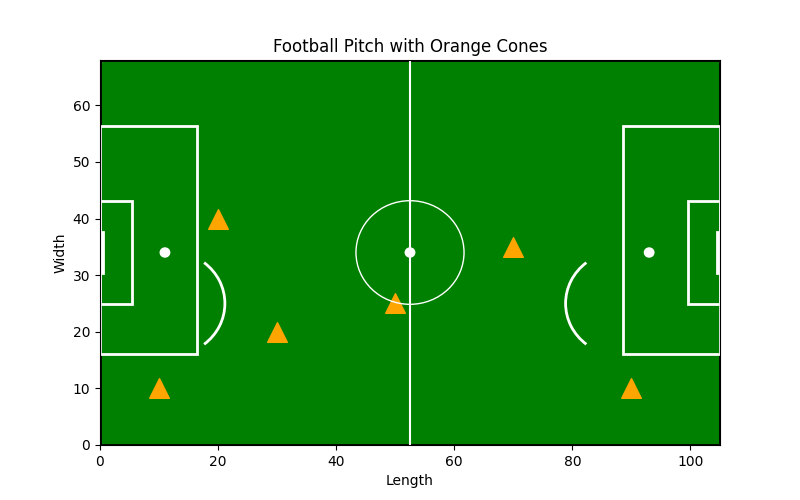
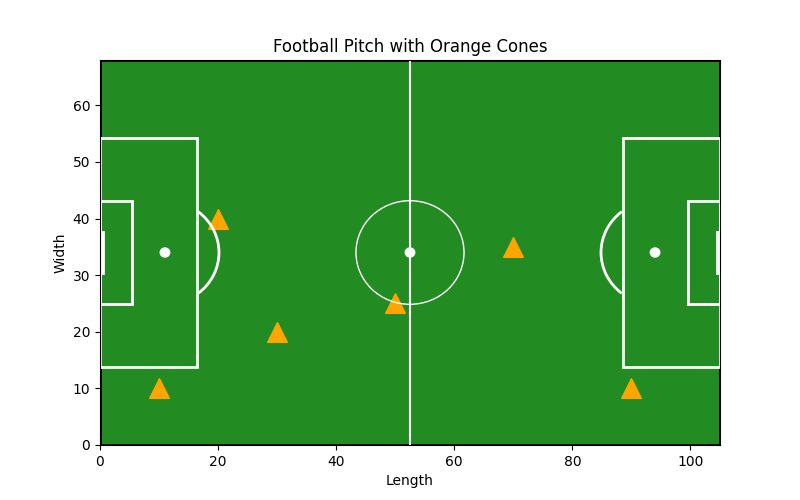
✨ feat: update pitch color and refactor penalty area and goal area dimensions in draw_cone_layout.py

diff --git a/src/draw_cone_layout.py b/src/draw_cone_layout.py
@@ -9,7 +9,7 @@ import matplotlib.pyplot as plt
 
 # Constants
 FIG_SIZE = (8, 5)
-PITCH_COLOR = "green"
+PITCH_COLOR = "#228B22"
 BACKGROUND_COLOR = "white"
 CONE_COLOR = "orange"
 CONE_SIZE = 200
@@ -18,20 +18,23 @@ CONE_POSITIONS = [(10, 10), (20, 40), (30, 20), (50, 25), (70, 35), (90, 10)]
 PITCH_LENGTH = 105
 PITCH_WIDTH = 68
 PITCH_DIMENSIONS = (PITCH_LENGTH, PITCH_WIDTH)
-PENALTY_SPOT_POSITIONS = [(11, PITCH_WIDTH/2.), (PITCH_LENGTH - 12, PITCH_WIDTH/2.)]
+PENALTY_SPOT_POSITIONS = [(11, PITCH_WIDTH / 2), (PITCH_LENGTH - 11, PITCH_WIDTH / 2)]
 LINE_WIDTH = 2
 CENTER_CIRCLE_RADIUS = 9.15
 CENTER_SPOT_RADIUS = 0.8
-PENALTY_AREA_DIMENSIONS = (16.5, 40.3)
-GOAL_AREA_DIMENSIONS = (5.5, 18.32)
+PENALTY_AREA_WIDTH = 40.3
+PENALTY_AREA_DEPTH = 16.5
+GOAL_AREA_WIDTH = 18.32
+GOAL_AREA_DEPTH = 5.5
 PENALTY_SPOT_RADIUS = 0.8
-GOAL_DIMENSIONS = (0.5, 7.32)
-PENALTY_ARC_DIMENSIONS = (18.3, 18.3)
-HALFWAY_LINE_COORDS = ([PITCH_LENGTH / 2.0, PITCH_LENGTH / 2.0], [0, PITCH_WIDTH])
+GOAL_WIDTH = 7.32
+GOAL_DEPTH = 0.5
+PENALTY_ARC_RADIUS = 9.15
+HALFWAY_LINE_COORDS = ([PITCH_LENGTH / 2, PITCH_LENGTH / 2], [0, PITCH_WIDTH])
 
 
 class ConeLayoutDrawer:
-    """cone layout drawer class"""
+    """Cone layout drawer class"""
 
     def __init__(self):
         self.fig, self.ax = plt.subplots(figsize=FIG_SIZE)
@@ -77,7 +80,7 @@ class ConeLayoutDrawer:
 
     def draw_center_circle(self):
         center_circle = plt.Circle(
-            (PITCH_LENGTH / 2.0, PITCH_WIDTH / 2.0),
+            (PITCH_LENGTH / 2, PITCH_WIDTH / 2),
             CENTER_CIRCLE_RADIUS,
             color="white",
             fill=False,
@@ -86,22 +89,24 @@ class ConeLayoutDrawer:
 
     def draw_center_spot(self):
         center_spot = plt.Circle(
-            (PITCH_LENGTH / 2.0, PITCH_WIDTH / 2.0), CENTER_SPOT_RADIUS, color="white"
+            (PITCH_LENGTH / 2, PITCH_WIDTH / 2), CENTER_SPOT_RADIUS, color="white"
         )
         self.ax.add_artist(center_spot)
 
     def draw_penalty_areas(self):
         penalty_area = patches.Rectangle(
-            (0, 16),
-            *PENALTY_AREA_DIMENSIONS,
+            (0, (PITCH_WIDTH - PENALTY_AREA_WIDTH) / 2),
+            PENALTY_AREA_DEPTH,
+            PENALTY_AREA_WIDTH,
             linewidth=LINE_WIDTH,
             edgecolor="white",
             facecolor="none",
         )
         self.ax.add_patch(penalty_area)
         penalty_area = patches.Rectangle(
-            (PITCH_LENGTH - PENALTY_AREA_DIMENSIONS[0], 16),
-            *PENALTY_AREA_DIMENSIONS,
+            (PITCH_LENGTH - PENALTY_AREA_DEPTH, (PITCH_WIDTH - PENALTY_AREA_WIDTH) / 2),
+            PENALTY_AREA_DEPTH,
+            PENALTY_AREA_WIDTH,
             linewidth=LINE_WIDTH,
             edgecolor="white",
             facecolor="none",
@@ -110,19 +115,18 @@ class ConeLayoutDrawer:
 
     def draw_goal_areas(self):
         goal_area = patches.Rectangle(
-            (0, PITCH_WIDTH / 2.0 - GOAL_AREA_DIMENSIONS[1] / 2),
-            *GOAL_AREA_DIMENSIONS,
+            (0, (PITCH_WIDTH - GOAL_AREA_WIDTH) / 2),
+            GOAL_AREA_DEPTH,
+            GOAL_AREA_WIDTH,
             linewidth=LINE_WIDTH,
             edgecolor="white",
             facecolor="none",
         )
         self.ax.add_patch(goal_area)
         goal_area = patches.Rectangle(
-            (
-                PITCH_LENGTH - GOAL_AREA_DIMENSIONS[0],
-                PITCH_WIDTH / 2.0 - GOAL_AREA_DIMENSIONS[1] / 2,
-            ),
-            *GOAL_AREA_DIMENSIONS,
+            (PITCH_LENGTH - GOAL_AREA_DEPTH, (PITCH_WIDTH - GOAL_AREA_WIDTH) / 2),
+            GOAL_AREA_DEPTH,
+            GOAL_AREA_WIDTH,
             linewidth=LINE_WIDTH,
             edgecolor="white",
             facecolor="none",
@@ -145,19 +149,18 @@ class ConeLayoutDrawer:
 
     def draw_goals(self):
         goal = patches.Rectangle(
-            (0, PITCH_WIDTH / 2.0 - GOAL_DIMENSIONS[1] / 2),
-            *GOAL_DIMENSIONS,
+            (0, (PITCH_WIDTH - GOAL_WIDTH) / 2),
+            GOAL_DEPTH,
+            GOAL_WIDTH,
             linewidth=LINE_WIDTH,
             edgecolor="white",
             facecolor="white",
         )
         self.ax.add_patch(goal)
         goal = patches.Rectangle(
-            (
-                PITCH_LENGTH - GOAL_DIMENSIONS[0],
-                PITCH_WIDTH / 2.0 - GOAL_DIMENSIONS[1] / 2,
-            ),
-            *GOAL_DIMENSIONS,
+            (PITCH_LENGTH - GOAL_DEPTH, (PITCH_WIDTH - GOAL_WIDTH) / 2),
+            GOAL_DEPTH,
+            GOAL_WIDTH,
             linewidth=LINE_WIDTH,
             edgecolor="white",
             facecolor="white",
@@ -166,8 +169,9 @@ class ConeLayoutDrawer:
 
     def draw_penalty_arcs(self):
         penalty_arc = patches.Arc(
-            (12, 25),
-            *PENALTY_ARC_DIMENSIONS,
+            (11, PITCH_WIDTH / 2),
+            2 * PENALTY_ARC_RADIUS,
+            2 * PENALTY_ARC_RADIUS,
             angle=0,
             theta1=308,
             theta2=52,
@@ -176,8 +180,9 @@ class ConeLayoutDrawer:
         )
         self.ax.add_patch(penalty_arc)
         penalty_arc = patches.Arc(
-            (100 - 12, 25),
-            *PENALTY_ARC_DIMENSIONS,
+            (PITCH_LENGTH - 11, PITCH_WIDTH / 2),
+            2 * PENALTY_ARC_RADIUS,
+            2 * PENALTY_ARC_RADIUS,
             angle=0,
             theta1=128,
             theta2=232,
